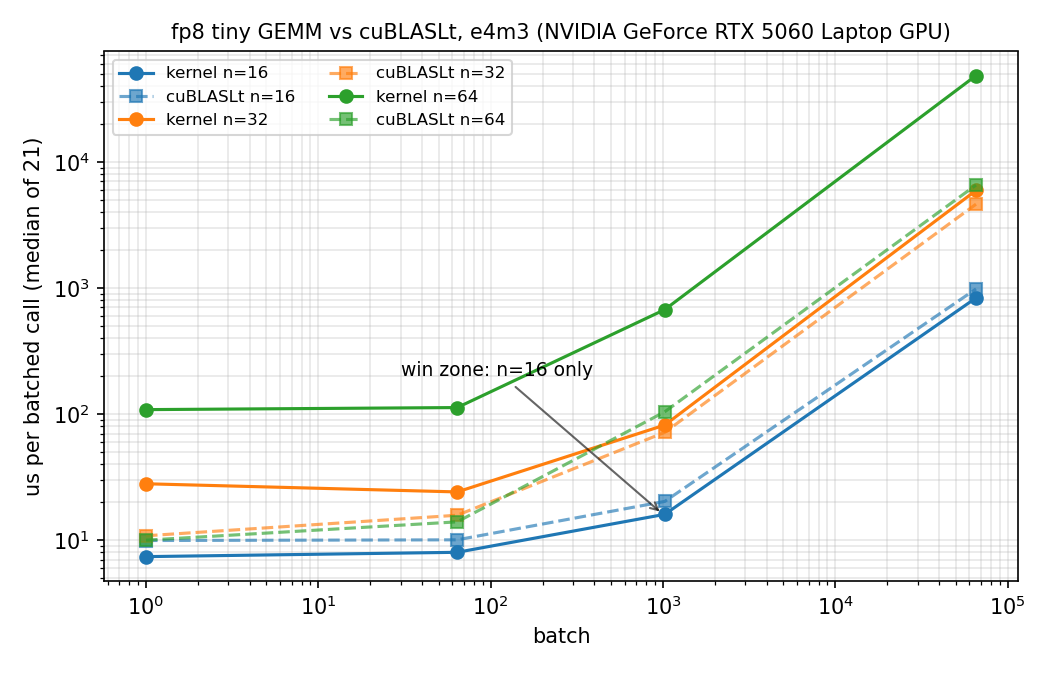
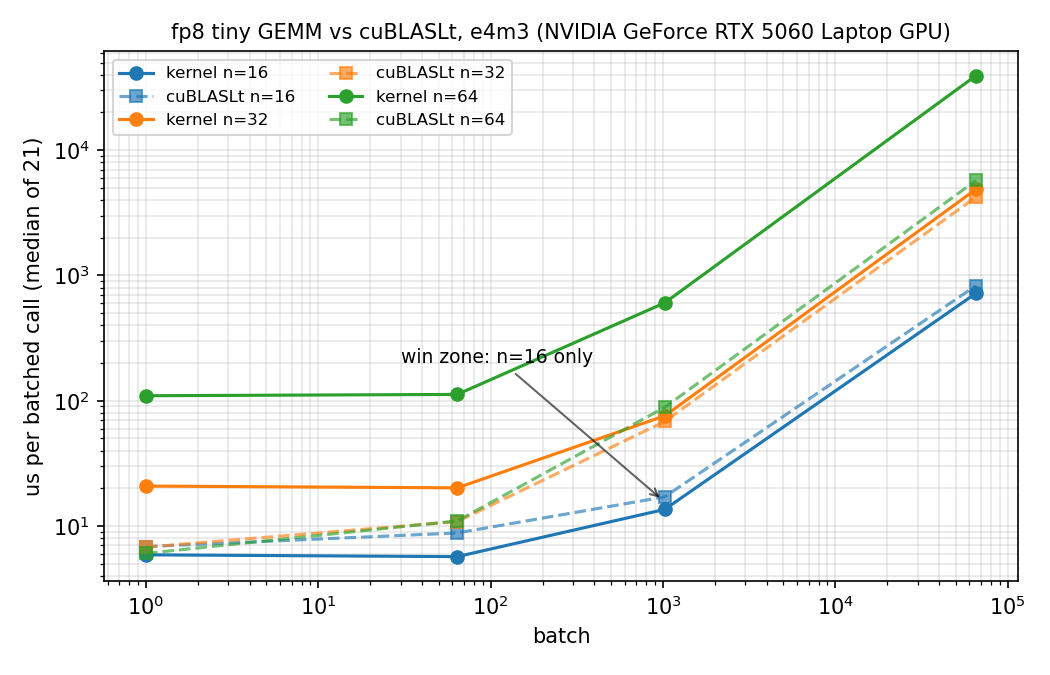
Pinned rerun: governor-pinned idle machine, 2026-10-30, table re-filled. Win zone unchanged (n=16 only, 0.65-0.87x vendor); the n=64 batch=1 loss deepened to 18.1x. The n=16 batch=65536 cell is bimodal even pinned (kernel reps 707-2282 us inside the tabled run; one of four same-morning pinned runs l

diff --git a/README.md b/README.md
@@ -9,37 +9,43 @@ configuration). Registered as benchmark #6 in [kernel-vs-library](https://github
 In the launch-tax regime a hand-written kernel — one warp per matrix,
 register-resident, no workspace query, no per-call setup — was expected to
 beat cuBLASLt batched FP8 for M=N=K ≤ 64. **Measured: the win zone is n=16
-only.** At n=16 the kernel wins every batch point (0.75–0.85× vendor time);
-at n=32 and n=64 cuBLASLt's tensor-core path wins everywhere, up to 10.9×.
-The launch-tax hypothesis survives only at the smallest size tested.
+only.** At n=16 the kernel wins every batch point in the pinned table
+(0.65–0.87× vendor time); at n=32 and n=64 cuBLASLt's tensor-core path
+wins everywhere, up to 18.1×. The launch-tax hypothesis survives only at
+the smallest size tested. Stability caveat: the n=16 batch=65536 cell is
+bimodal even governor-pinned (kernel reps span 707–2282 µs inside a single
+run; one of four same-morning pinned runs lost 1.55× there) — the other
+three n=16 cells won in all four pinned runs.
 
 ## Results (RTX 5060 Laptop, sm_120, CUDA 13.2, driver 615.71.09)
 
 µs per batched call, median of 21 with [min, max]; raw per-rep timings and
-machine metadata in `data/fp8_bench.json`. Laptop, power mode not pinned.
+machine metadata in `data/fp8_bench.json`. Governor-pinned idle machine
+(performance governor, recorded in the JSON), 2026-10-30; the table is one
+pinned run, and the cross-run stability notes above apply.
 
 | n | batch | kernel | cuBLASLt | kernel/lt | winner |
 |--:|--:|--|--|--|--|
-| 16 | 1 | 7.4 [7.0, 9.4] | 9.9 [9.5, 12.1] | 0.75 | kernel |
-| 16 | 64 | 8.0 [7.4, 8.7] | 10.0 [9.8, 12.0] | 0.80 | kernel |
-| 16 | 1024 | 16.0 [14.0, 18.1] | 20.3 [19.0, 21.6] | 0.79 | kernel |
-| 16 | 65536 | 833.3 [828.8, 836.0] | 981.2 [916.7, 989.0] | 0.85 | kernel |
-| 32 | 1 | 28.0 [26.7, 31.0] | 10.8 [10.2, 12.3] | 2.59 | cublaslt |
-| 32 | 64 | 24.1 [22.8, 27.5] | 15.7 [13.5, 16.1] | 1.53 | cublaslt |
-| 32 | 1024 | 81.7 [79.4, 84.0] | 71.5 [70.8, 71.9] | 1.14 | cublaslt |
-| 32 | 65536 | 5931.9 [5306.2, 6067.9] | 4614.2 [4418.5, 5964.7] | 1.29 | cublaslt |
-| 64 | 1 | 108.3 [107.9, 111.6] | 10.0 [9.4, 12.2] | 10.85 | cublaslt |
-| 64 | 64 | 112.5 [111.3, 115.5] | 14.0 [12.6, 15.6] | 8.06 | cublaslt |
-| 64 | 1024 | 672.8 [656.1, 695.2] | 104.1 [103.7, 106.1] | 6.46 | cublaslt |
-| 64 | 65536 | 48336.0 [47824.1, 75029.8] | 6542.5 [6455.1, 6895.5] | 7.39 | cublaslt |
+| 16 | 1 | 5.9 [5.2, 13.5] | 6.8 [5.7, 14.0] | 0.86 | kernel |
+| 16 | 64 | 5.7 [5.3, 8.9] | 8.8 [7.6, 17.9] | 0.65 | kernel |
+| 16 | 1024 | 13.6 [13.2, 14.6] | 17.1 [16.7, 26.4] | 0.79 | kernel |
+| 16 | 65536 | 720.6 [707.5, 2282.3] | 828.4 [794.7, 831.4] | 0.87 | kernel |
+| 32 | 1 | 20.8 [19.8, 22.5] | 6.8 [6.3, 13.6] | 3.07 | cublaslt |
+| 32 | 64 | 20.2 [19.3, 22.0] | 10.8 [8.2, 11.8] | 1.86 | cublaslt |
+| 32 | 1024 | 75.7 [74.8, 81.5] | 68.3 [67.9, 77.4] | 1.11 | cublaslt |
+| 32 | 65536 | 4874.9 [4249.6, 4921.1] | 4225.4 [4200.3, 4812.5] | 1.15 | cublaslt |
+| 64 | 1 | 109.6 [108.0, 110.2] | 6.0 [5.6, 12.0] | 18.12 | cublaslt |
+| 64 | 64 | 112.2 [111.4, 121.0] | 11.0 [10.7, 22.1] | 10.22 | cublaslt |
+| 64 | 1024 | 604.2 [593.7, 629.9] | 88.5 [87.1, 98.8] | 6.82 | cublaslt |
+| 64 | 65536 | 39359.3 [38976.8, 54590.1] | 5726.0 [5550.9, 6912.9] | 6.87 | cublaslt |
 
 **e5m2:** cuBLASLt's heuristic offers no algo for the row-major strided
 batched e5m2 configuration on this stack (recorded as `null` cells in the
 JSON); kernel-side e5m2 times are in the sweep and track e4m3 within ~2%
 (7% at the n=16 batch=1 launch-noise floor).
 
-Launch-overhead exhibit (batch=1 row): the kernel's fixed cost is ~7.4 µs
-vs ~10 µs for cuBLASLt — the ~2.5 µs setup tax the tiny regime amortizes.
+Launch-overhead exhibit (batch=1 row): the kernel's fixed cost is ~5.9 µs
+vs ~6.8 µs for cuBLASLt — the ~1 µs setup tax the tiny regime amortizes.
 
 ![time vs batch](data/fp8_bench.png)
 
@@ -69,8 +75,10 @@ quantization, counted: ~50% of entries) with no NaN/Inf in any output.
 ## Status
 
 CV-4 built and measured 2026-10-25: CTest 2/2 (correctness + FP4 appendix),
-benchmark table above, win zone n=16. Per the kill criterion the table
-ships as measured.
+benchmark table above, win zone n=16. Governor-pinned idle-machine rerun
+2026-10-30: table re-filled (win zone unchanged; n=64 batch=1 loss deepened
+to 18.1x; the n=16 batch=65536 cell is bimodal even pinned — see the claim
+caveat). Per the kill criterion the table ships as measured.
 
 
 
